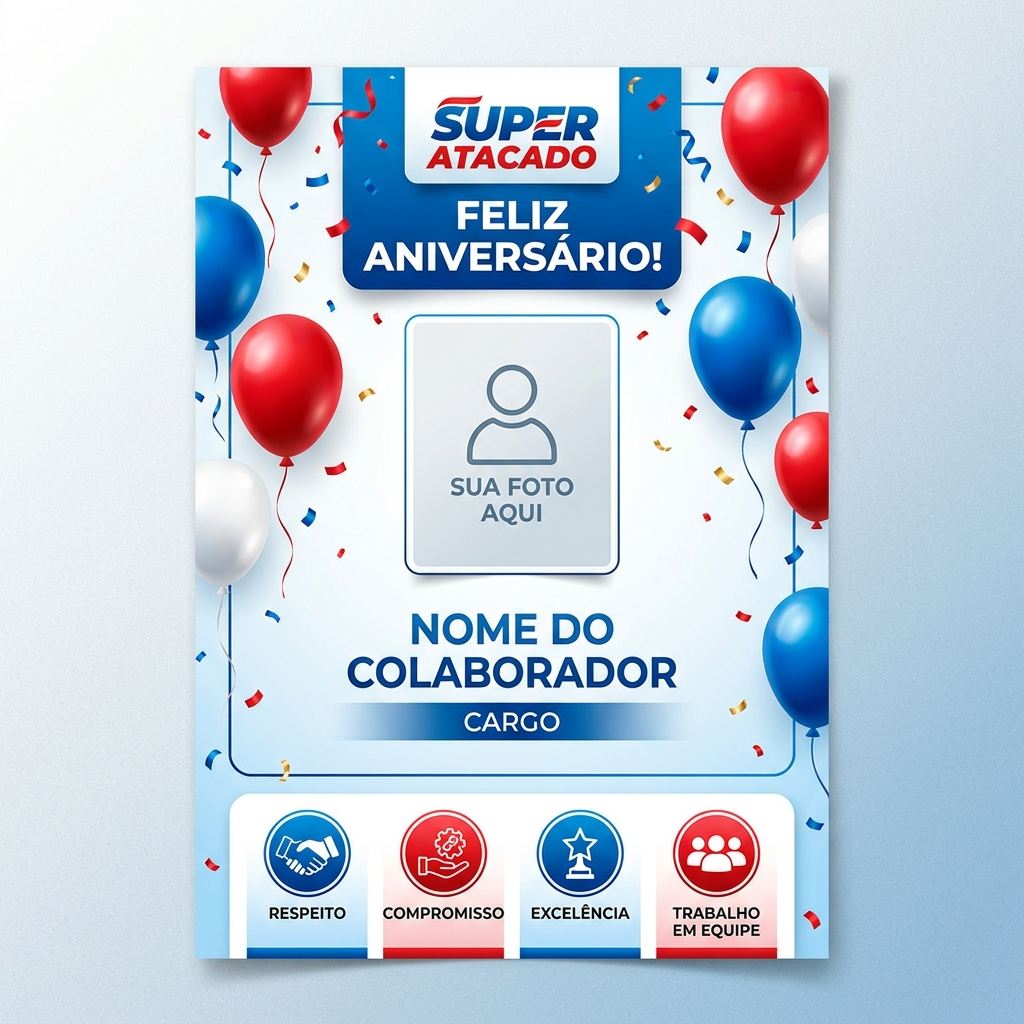
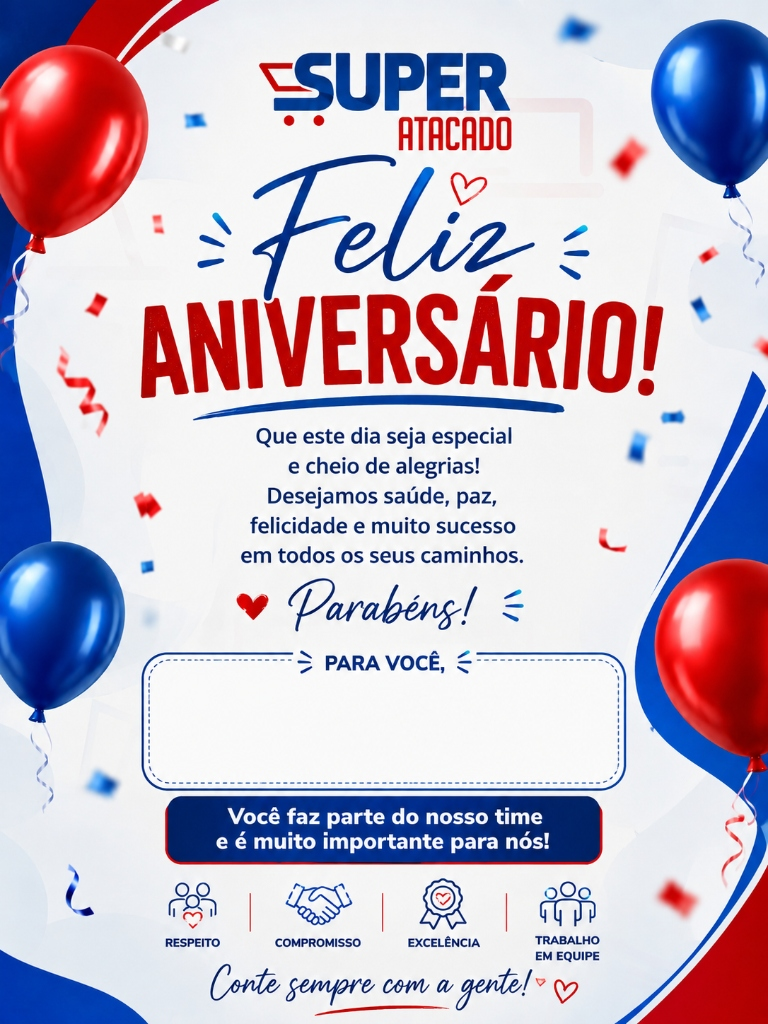
fix: posicionar nome e cargo dentro do espaco branco do cartaz de aniversario

diff --git a/src/components/dashboard/BirthdayPosterGenerator.tsx b/src/components/dashboard/BirthdayPosterGenerator.tsx
@@ -65,201 +65,40 @@ function InnerCanvas({ firstName, employeeRole, employeePhoto, customBg, onCanva
 
         if (!isActive) return;
 
-        // Standard high-resolution poster dimensions (1080 x 1440)
-        const width = 1080;
-        const height = 1440;
+        // Use the natural resolution of the background image
+        const width = loadedBgImg?.naturalWidth || 1080;
+        const height = loadedBgImg?.naturalHeight || 1350;
         canvas.width = width;
         canvas.height = height;
-
         const centerX = width / 2;
 
+        // Draw background (the image already contains all design elements)
         if (loadedBgImg) {
           ctx.drawImage(loadedBgImg, 0, 0, width, height);
         } else {
-          // Festive fallback gradient background
-          const gradient = ctx.createLinearGradient(0, 0, width, height);
-          gradient.addColorStop(0, '#f8fafc');
-          gradient.addColorStop(0.5, '#eff6ff');
-          gradient.addColorStop(1, '#dbeafe');
-          ctx.fillStyle = gradient;
+          ctx.fillStyle = '#e8edf5';
           ctx.fillRect(0, 0, width, height);
         }
 
+        // --- ONLY draw employee NAME + ROLE in the white space area ---
+        // The white "PARA VOCÊ" box is approximately at 60-68% of image height
         ctx.textAlign = 'center';
 
-        // --- 1. HEADER LOGO & TITLE ---
-        // Super Atacado Brand Header
-        ctx.font = 'bold 36px "Inter", sans-serif';
-        ctx.fillStyle = '#002b80';
-        ctx.fillText('SUPER ATACADO', centerX, height * 0.08);
-
-        // "FELIZ" Subheader
-        ctx.font = 'bold 56px "Inter", italic, sans-serif';
-        ctx.fillStyle = '#002b80';
-        ctx.fillText('Feliz', centerX, height * 0.14);
-
-        // "ANIVERSÁRIO!" Big 3D Red Title
-        ctx.save();
-        const titleY = height * 0.21;
-        ctx.font = '900 88px "Inter", sans-serif';
-
-        // Shadow behind title
-        ctx.shadowColor = 'rgba(0, 0, 0, 0.2)';
-        ctx.shadowBlur = 15;
-        ctx.shadowOffsetY = 6;
-
-        // White outline for title crispness
-        ctx.lineWidth = 12;
-        ctx.strokeStyle = '#ffffff';
-        ctx.strokeText('ANIVERSÁRIO!', centerX, titleY);
-
-        // Red Fill
-        ctx.fillStyle = '#c8102e';
-        ctx.fillText('ANIVERSÁRIO!', centerX, titleY);
-        ctx.restore();
-
-        // Decorative underline
-        ctx.beginPath();
-        ctx.moveTo(centerX - 180, height * 0.23);
-        ctx.lineTo(centerX + 180, height * 0.23);
-        ctx.lineWidth = 6;
-        ctx.strokeStyle = '#002b80';
-        ctx.lineCap = 'round';
-        ctx.stroke();
-
-        // --- 2. EMPLOYEE PHOTO ---
-        const photoY = height * 0.40;
-        const photoRadius = 120; // 240px diameter
-
-        if (employeePhoto) {
-          try {
-            const photoImg = await loadImg(employeePhoto, true);
-            if (!isActive) return;
-
-            // Soft shadow behind photo
-            ctx.save();
-            ctx.shadowColor = 'rgba(0, 43, 128, 0.3)';
-            ctx.shadowBlur = 30;
-            ctx.shadowOffsetY = 8;
-
-            // White base circle
-            ctx.beginPath();
-            ctx.arc(centerX, photoY, photoRadius + 6, 0, Math.PI * 2, true);
-            ctx.fillStyle = '#ffffff';
-            ctx.fill();
-            ctx.restore();
-
-            // Clip circular photo
-            ctx.save();
-            ctx.beginPath();
-            ctx.arc(centerX, photoY, photoRadius, 0, Math.PI * 2, true);
-            ctx.closePath();
-            ctx.clip();
-
-            // Object-fit cover math
-            const size = Math.min(photoImg.width, photoImg.height);
-            const sx = (photoImg.width - size) / 2;
-            const sy = (photoImg.height - size) / 2;
-            ctx.drawImage(photoImg, sx, sy, size, size, centerX - photoRadius, photoY - photoRadius, photoRadius * 2, photoRadius * 2);
-            ctx.restore();
-
-            // Double border: Outer Gold, Inner Navy
-            ctx.beginPath();
-            ctx.arc(centerX, photoY, photoRadius + 4, 0, Math.PI * 2, true);
-            ctx.lineWidth = 8;
-            ctx.strokeStyle = '#fcd34d'; // Gold accent
-            ctx.stroke();
-
-            ctx.beginPath();
-            ctx.arc(centerX, photoY, photoRadius, 0, Math.PI * 2, true);
-            ctx.lineWidth = 4;
-            ctx.strokeStyle = '#002b80'; // Navy border
-            ctx.stroke();
-          } catch (e) {
-            console.error("Failed to load employee photo", e);
-          }
-        }
-
-        // --- 3. EMPLOYEE NAME & ROLE ---
-        const nameY = employeePhoto ? photoY + photoRadius + 85 : height * 0.48;
-
-        // Employee Name with high-contrast white halo outline
-        ctx.save();
-        ctx.font = '900 82px "Inter", sans-serif';
-
-        ctx.shadowColor = 'rgba(255, 255, 255, 0.9)';
-        ctx.shadowBlur = 12;
-
-        ctx.lineWidth = 10;
-        ctx.strokeStyle = '#ffffff';
-        ctx.strokeText(firstName.toUpperCase(), centerX, nameY);
-
+        // Employee Name — big, bold, navy blue
+        // Centered inside the blank dashed rectangle (below "PARA VOCÊ,")
+        const nameY = Math.round(height * 0.73);
+        const nameFontSize = Math.round(width * 0.065);
+        ctx.font = `900 ${nameFontSize}px "Inter", sans-serif`;
         ctx.fillStyle = '#002b80';
         ctx.fillText(firstName.toUpperCase(), centerX, nameY);
-        ctx.restore();
 
-        // Employee Role Pill Tag
+        // Employee Role — smaller, red accent, right below name
         const safeRole = (employeeRole || 'Colaborador').toUpperCase();
-        const roleY = nameY + 25;
-        const pillWidth = Math.max(280, safeRole.length * 22 + 60);
-        const pillHeight = 46;
-        const pillX = centerX - pillWidth / 2;
-
-        ctx.save();
-        ctx.shadowColor = 'rgba(200, 16, 46, 0.3)';
-        ctx.shadowBlur = 15;
-        ctx.shadowOffsetY = 4;
-
-        ctx.beginPath();
-        ctx.roundRect(pillX, roleY, pillWidth, pillHeight, 23);
-        ctx.fillStyle = '#c8102e'; // Red Pill Background
-        ctx.fill();
-        ctx.restore();
-
-        // Role Text inside Pill Tag
-        ctx.font = 'bold 24px "Inter", sans-serif';
-        ctx.fillStyle = '#ffffff';
-        ctx.fillText(safeRole, centerX, roleY + 31);
-
-        // --- 4. CONGRATULATORY MESSAGE ---
-        const msgY = roleY + 110;
-        ctx.font = '600 28px "Inter", sans-serif';
-        ctx.fillStyle = '#1e293b';
-        ctx.fillText('Que este dia seja especial e cheio de alegrias!', centerX, msgY);
-
-        ctx.font = '500 24px "Inter", sans-serif';
-        ctx.fillStyle = '#475569';
-        ctx.fillText('Desejamos saúde, paz, felicidade e muito sucesso.', centerX, msgY + 40);
-
-        ctx.font = 'bold 36px "Inter", italic, sans-serif';
+        const roleY = nameY + Math.round(height * 0.03);
+        const roleFontSize = Math.round(width * 0.028);
+        ctx.font = `700 ${roleFontSize}px "Inter", sans-serif`;
         ctx.fillStyle = '#c8102e';
-        ctx.fillText('Parabéns! ❤', centerX, msgY + 95);
-
-        // --- 5. CORPORATE TEAM BANNER ---
-        const bannerY = height * 0.84;
-        const bannerW = 820;
-        const bannerH = 64;
-        const bannerX = centerX - bannerW / 2;
-
-        ctx.save();
-        ctx.shadowColor = 'rgba(0, 43, 128, 0.25)';
-        ctx.shadowBlur = 20;
-        ctx.shadowOffsetY = 6;
-
-        ctx.beginPath();
-        ctx.roundRect(bannerX, bannerY, bannerW, bannerH, 16);
-        ctx.fillStyle = '#002b80';
-        ctx.fill();
-        ctx.restore();
-
-        ctx.font = 'bold 24px "Inter", sans-serif';
-        ctx.fillStyle = '#ffffff';
-        ctx.fillText('Você faz parte do nosso time e é muito importante para nós!', centerX, bannerY + 40);
-
-        // --- 6. FOOTER SIGNATURE ---
-        ctx.font = 'bold 22px "Inter", sans-serif';
-        ctx.fillStyle = '#002b80';
-        ctx.fillText('SUPER ATACADO • Conte sempre com a gente! ❤', centerX, height * 0.94);
+        ctx.fillText(safeRole, centerX, roleY);
       };
 
       renderPoster();

diff --git a/docs/README.md b/docs/README.md
@@ -1,0 +1,11 @@
+# Documentação e Manuais
+
+Esta pasta é reservada para armazenar informações, manuais, guias e qualquer outra documentação pertinente ao projeto **CyberTech RH - HR-HUB PLUS**.
+
+## Organização Sugerida
+
+Você pode criar subpastas aqui para separar diferentes tipos de documentos, por exemplo:
+
+- `/manuais`: Para manuais de usuário ou de instalação.
+- `/tecnico`: Para especificações técnicas, diagramas de arquitetura, etc.
+- `/recursos`: Para imagens, ícones ou outros materiais estáticos não incluídos diretamente no código fonte.
